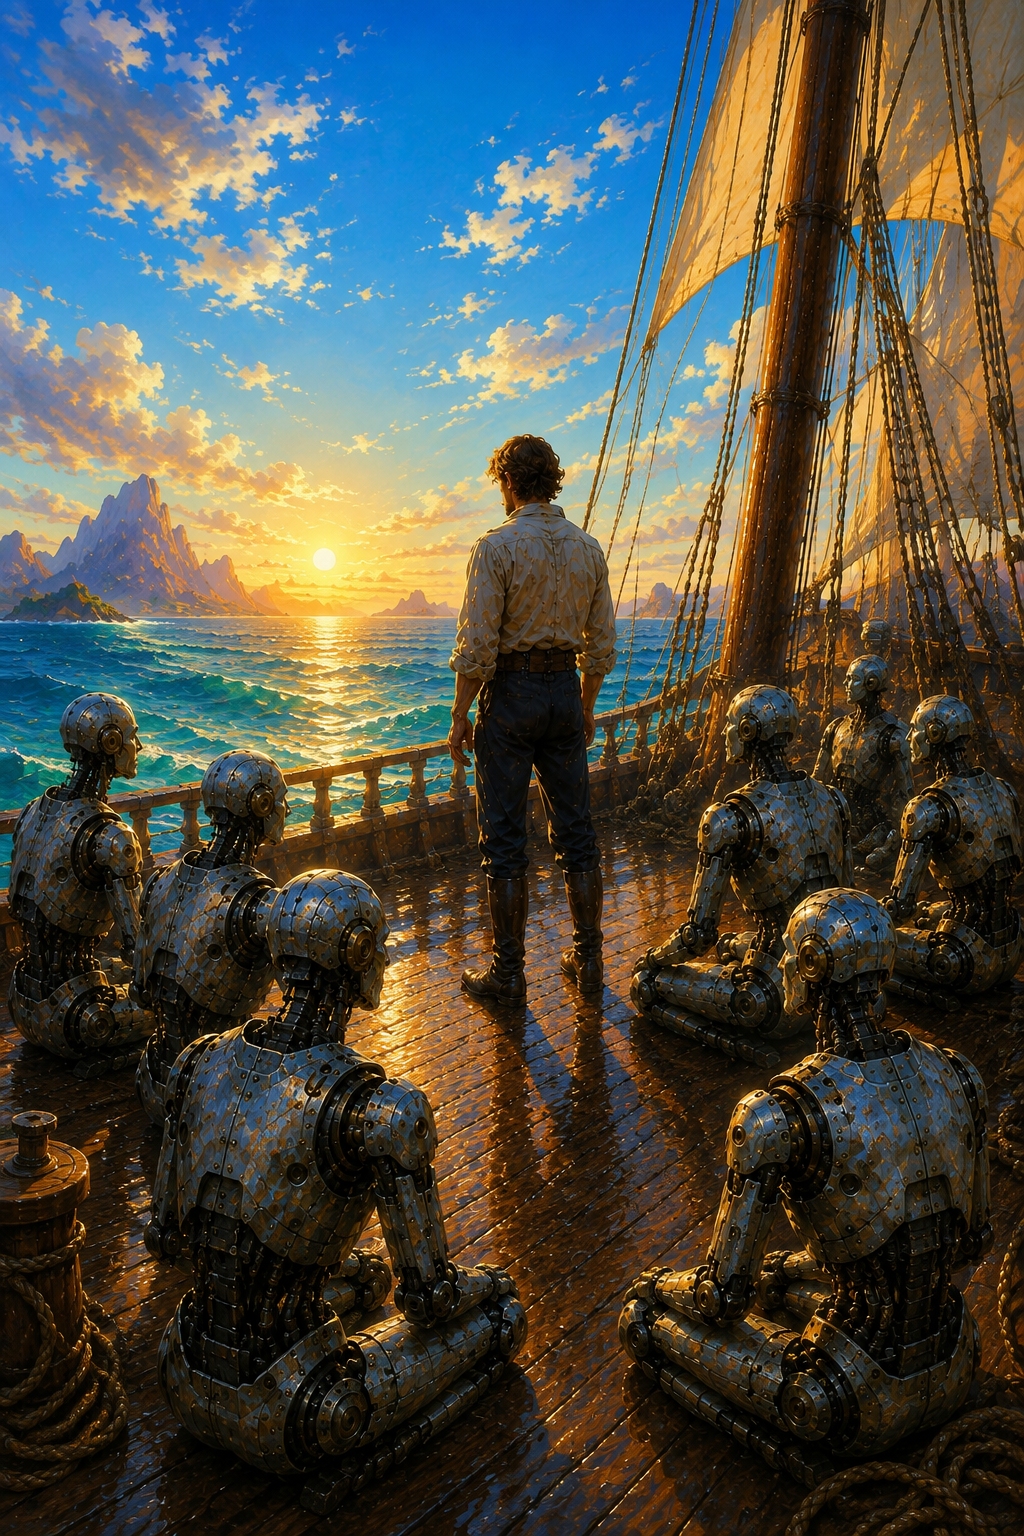
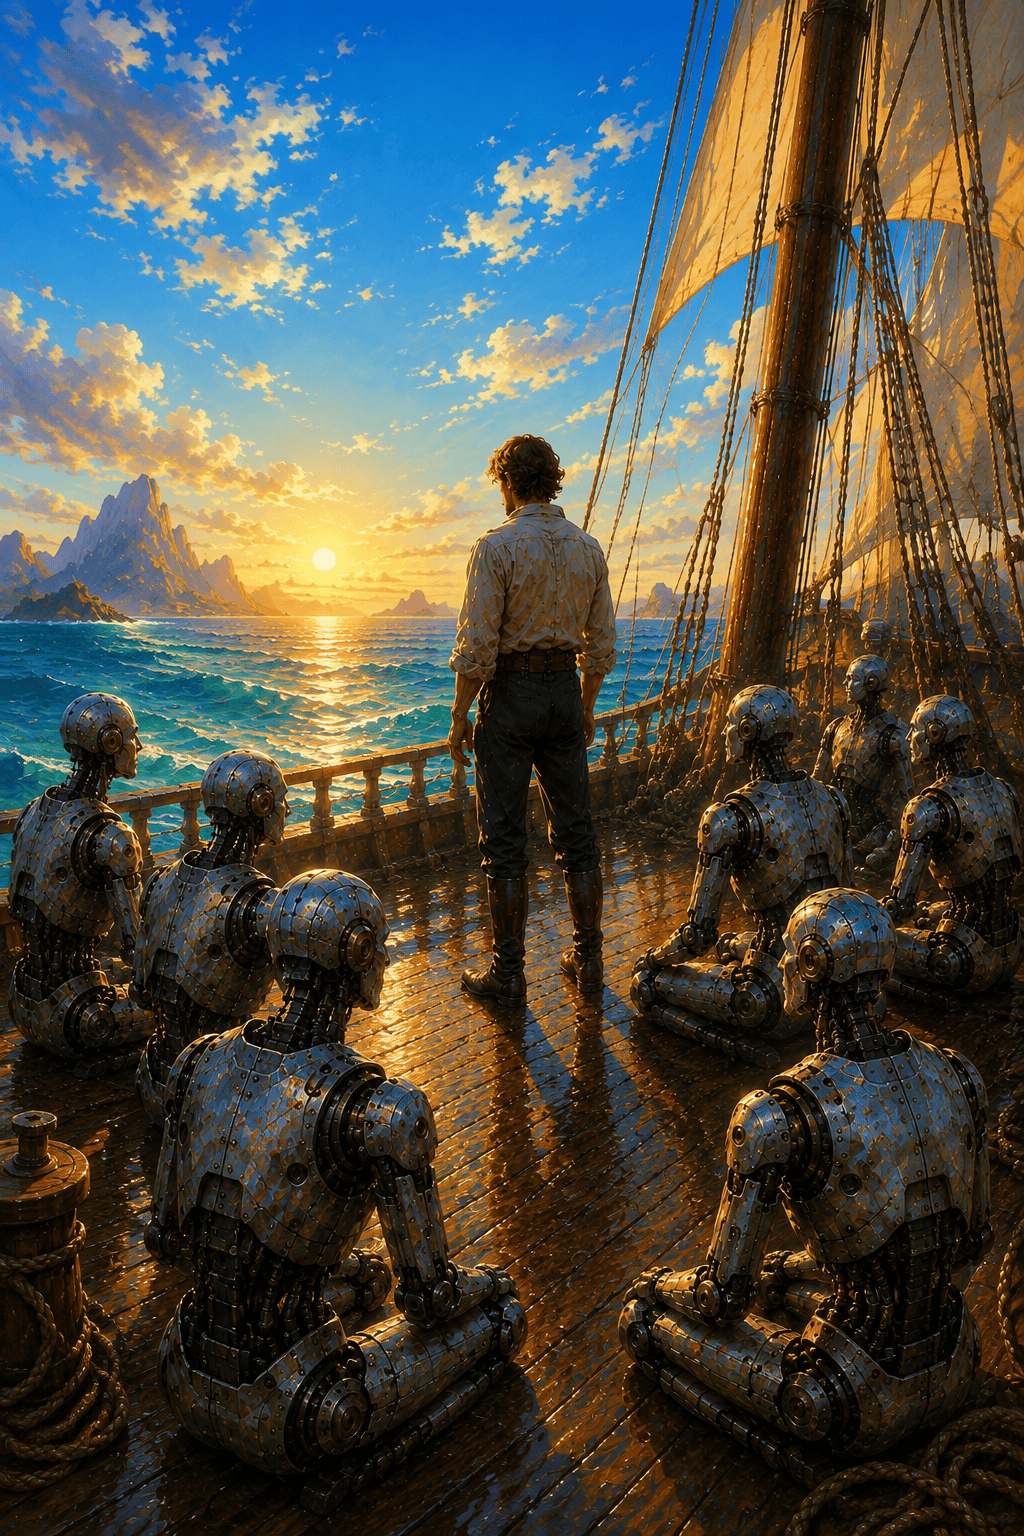
Add more slides for agents talk

Changed region(s): [[0.2812, 0.375, 0.3125, 0.4062], [0.25, 0.4375, 0.2812, 0.4688]]

diff --git a/src/talks/agents-tech-talk/index.html b/src/talks/agents-tech-talk/index.html
@@ -120,6 +120,11 @@
           <p>Feels like JavaScript UI frameworks, a new one pops up every month.</p>
           <ul>
             <li>
+              OpenAI Agents SDK -
+              <a href="https://openai.github.io/openai-agents-python/">Docs</a>,
+              <a href="https://github.com/openai/openai-agents-python">GitHub</a>
+            </li>
+            <li>
               Microsoft Agent Framework -
               <a href="https://learn.microsoft.com/en-us/agent-framework/">Docs</a>,
               <a href="https://github.com/microsoft/agent-framework">GitHub</a>
@@ -144,39 +149,115 @@
               <a href="https://github.com/crewAIInc/crewAI">GitHub</a>,
               <a href="https://crewai.com">Website</a>
             </li>
+            <li>
+              LangChain, LangGraph, LangSmith - <a href="https://www.langchain.com/">Website</a>
+            </li>
           </ul>
           <p>⚠ Be aware of vendor lock-in especially for agent deployment.</p>
         </section>
 
         <section>
-          <h2>Agent code example</h2>
+          <h2>OpenAI Agents SDK</h2>
+          <p>Sync and async examples.</p>
           <pre><code data-trim class="language-python">
-            def calculate_area(width: float, height: float) -> float:
-              """Calculate the area of a rectangle.
+            from agents import Agent, Runner
 
-              Args:
-                  width: The width of the rectangle.
-                  height: The height of the rectangle.
+            agent = Agent(name="Assistant", instructions="You are a helpful assistant")
 
-              Returns:
-                  The area of the rectangle.
-              """
-              return width * height
+            result = Runner.run_sync(agent, "Write a haiku about recursion in programming.")
+            print(result.final_output)
+          </code></pre>
+          <pre><code data-trim class="language-python">
+            import asyncio
+            from agents import Agent, Runner
+
+            agent = Agent(
+                name="History Tutor",
+                instructions="You answer history questions clearly and concisely.",
+            )
+
+            async def main():
+                result = await Runner.run(agent, "When did the Roman Empire fall?")
+                print(result.final_output)
+
+            if __name__ == "__main__":
+                asyncio.run(main())
           </code></pre>
         </section>
 
         <section>
           <h2>MCP servers</h2>
-          <p>here</p>
+          <p>
+            MCP (Model Context Protocol) is an open-source standard for connecting AI applications
+            to external systems.
+          </p>
+          <p>FastMCP is a Python package for building MCP servers and clients.</p>
+          <pre><code data-trim class="language-python">
+            from fastmcp import FastMCP
+
+            mcp = FastMCP("Demo 🚀")
+
+            @mcp.tool
+            def add(a: int, b: int) -> int:
+                """Add two numbers."""
+                return a + b
+
+            if __name__ == "__main__":
+                mcp.run()
+          </code></pre>
+          <p>
+            MCP documentation at
+            <a href="https://modelcontextprotocol.io">https://modelcontextprotocol.io</a>
+          </p>
+          <p>FastMCP documentation at <a href="https://gofastmcp.com">https://gofastmcp.com</a></p>
         </section>
 
         <section>
-          <h2>The SKILL.md file</h2>
+          <img src="mcp-server-diagram.png" alt="MCP server diagram" />
+        </section>
+
+        <section>
+          <h2>Skills</h2>
           <p>A standard way to give AI agents new capabilities and expertise.</p>
+          <p>A skill is just a folder that contains a SKILL.md file and optional resources.</p>
+          <pre><code data-trim class="language-text">
+            my-skill/
+            ├── SKILL.md          # Required metadata + instructions
+            ├── scripts/          # Optional executable code
+            ├── references/       # Optional documentation
+            ├── assets/           # Optional templates, resources
+            └── ...               # Any additional files or directories
+          </code></pre>
+          <p>
+            When a skill activates, its full SKILL.md body loads into the agent’s context window
+            alongside conversation history, system context, and other active skills.
+          </p>
           <p>
             More information about agent skills at
             <a href="https://agentskills.io">https://agentskills.io</a>
           </p>
+        </section>
+
+        <section>
+          <h2>The SKILL.md file</h2>
+          <p>YAML frontmatter followed by Markdown content (the body).</p>
+          <pre><code data-trim class="language-text">
+            ---
+            name: roll-dice
+            description: Roll dice using a random number generator. Use when asked to
+              roll a die (d6, d20, etc.), roll dice, or generate a random dice roll.
+            ---
+
+            To roll a die, use the following command that generates a random number from 1
+            to the given number of sides:
+
+            ```bash
+            echo $((RANDOM % &lt;sides&gt; + 1))
+            ```
+
+            Replace `&lt;sides&gt;` with the number of sides on the die (e.g., 6 for a standard
+            die, 20 for a d20).
+          </code></pre>
         </section>
 
         <section>
@@ -200,6 +281,26 @@
             More information about the AGENTS.md file at
             <a href="https://agents.md">https://agents.md</a>
           </p>
+        </section>
+
+        <section>
+          <h2>Hierarchy of terms</h2>
+          <p><b>Model</b><br />→ GPT, Claude, Gemini, Llama, etc.</p>
+          <p><b>Agent SDK/framework</b><br />→ LangGraph, OpenAI Agents SDK, Pydantic AI</p>
+          <p><b>Agent harness/runtime</b><br />→ Hermes, OpenClaw, Pi, similar systems</p>
+          <p>
+            <b>Finished agent/product</b><br />→ Claude Code, Codex, Devin, ChatGPT-style agents
+          </p>
+        </section>
+
+        <section>
+          <h2 style="border-bottom: none; text-align: center">
+            Standing on the shoulders of <s>giants</s> agents?
+          </h2>
+          <img
+            src="standing-agents.png"
+            alt="standing agents"
+            style="max-width: 600px; margin-inline: auto; display: block" />
         </section>
       </div>
     </div>
